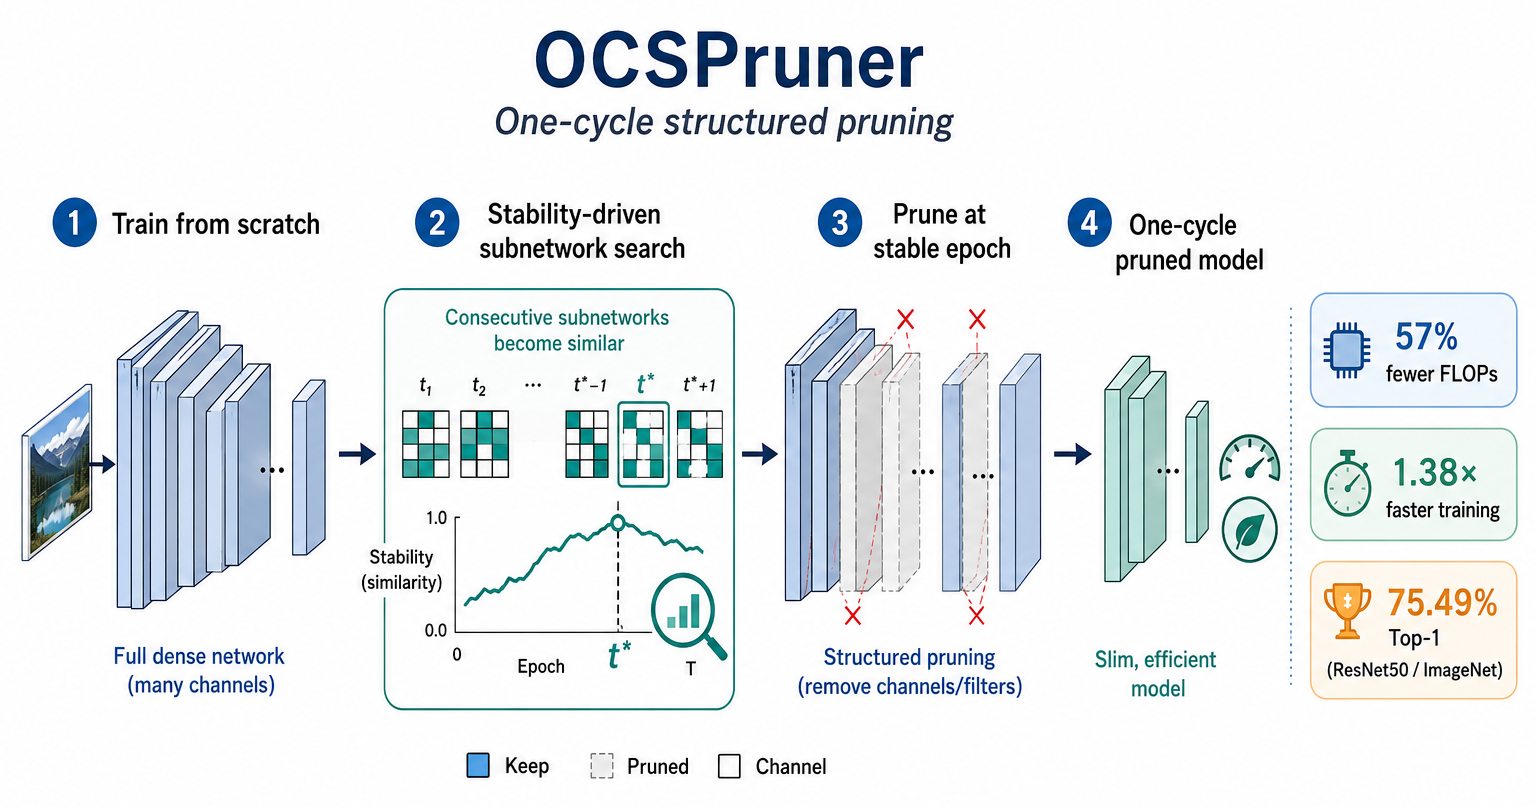
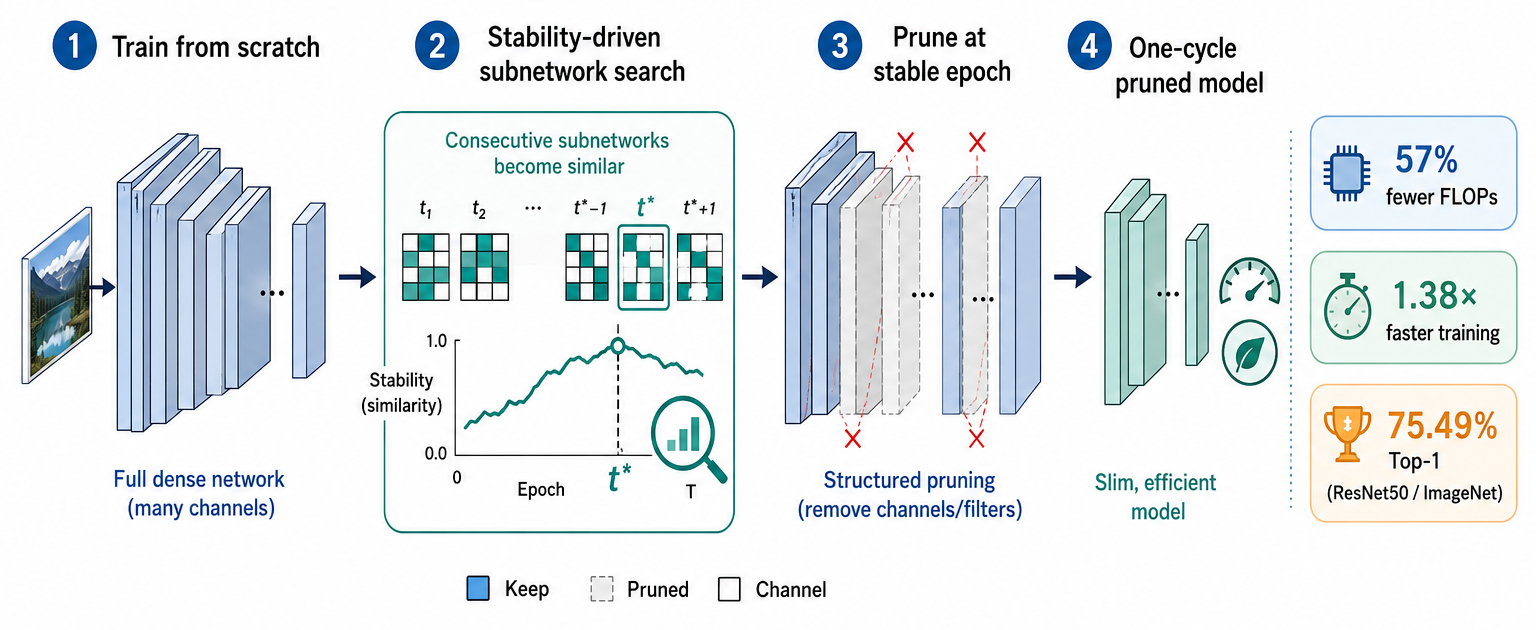
Update website

diff --git a/assets/css/styles.css b/assets/css/styles.css
@@ -1227,13 +1227,14 @@ h3 {
 
 .publication-list {
   display: grid;
-  gap: 16px;
+  gap: 14px;
 }
 
 .publication-card {
   display: grid;
   grid-template-columns: minmax(220px, 0.34fr) minmax(0, 1fr);
-  gap: 22px;
+  align-items: start;
+  gap: 16px;
   padding: 0;
   overflow: hidden;
 }
@@ -1243,16 +1244,29 @@ h3 {
 }
 
 .publication-card h2 {
+  margin-bottom: 8px;
   font-size: 1.08rem;
-  line-height: 1.3;
+  line-height: 1.22;
 }
 
 .publication-card p {
-  margin-bottom: 14px;
+  margin-bottom: 10px;
+}
+
+.pub-summary-row {
+  display: grid;
+  grid-template-columns: minmax(0, 1fr) auto;
+  align-items: start;
+  gap: 8px 10px;
+  margin-bottom: 10px;
+}
+
+.pub-summary-row p {
+  margin-bottom: 0;
 }
 
 .pub-body {
-  padding: 10px 24px 20px 0;
+  padding: 8px 16px 12px 0;
 }
 
 .publication-card a,
@@ -1273,9 +1287,12 @@ h3 {
 
 .pub-visual {
   display: grid;
-  align-content: center;
+  grid-template-rows: auto minmax(96px, 1fr) auto;
+  align-self: start;
+  align-content: stretch;
   justify-items: center;
-  min-height: 205px;
+  height: 165px;
+  min-height: 165px;
   padding: 0;
   border-right: 1px solid var(--line);
   background:
@@ -1285,15 +1302,16 @@ h3 {
 }
 
 .pub-visual .pub-icon {
-  width: 82px;
-  height: 82px;
+  align-self: center;
+  width: 68px;
+  height: 68px;
 }
 
 .pub-visual .pub-meta {
   align-self: start;
   width: 100%;
   margin: 0;
-  padding: 10px 10px 8px;
+  padding: 10px 10px 7px;
   border-bottom: 1px solid rgba(223, 228, 226, 0.85);
   color: var(--deep-red);
   font-size: 0.72rem;
@@ -1302,6 +1320,7 @@ h3 {
 }
 
 .pub-abstract {
+  align-self: center;
   width: 100%;
   max-width: none;
   height: auto;
@@ -1315,10 +1334,44 @@ h3 {
   box-shadow: none;
 }
 
+.pub-visual::after {
+  align-self: end;
+  width: 100%;
+  padding: 7px 8px 8px;
+  border-top: 1px solid rgba(223, 228, 226, 0.78);
+  color: var(--muted);
+  font-size: 0.72rem;
+  font-weight: 900;
+  letter-spacing: 0.08em;
+  line-height: 1.2;
+  text-align: center;
+  text-transform: uppercase;
+}
+
+.publication-card[data-topic="edge-ai"] .pub-visual::after {
+  content: "Efficient AI";
+}
+
+.publication-card[data-topic="vision"] .pub-visual::after {
+  content: "Vision";
+}
+
+.publication-card[data-topic="agri"] .pub-visual::after {
+  content: "Agriculture";
+}
+
+.publication-card[data-topic="health"] .pub-visual::after {
+  content: "Healthcare AI";
+}
+
+.publication-card[data-topic="systems"] .pub-visual::after {
+  content: "Systems";
+}
+
 .pub-actions {
   display: flex;
   flex-wrap: wrap;
-  gap: 9px;
+  gap: 8px;
 }
 
 .pub-actions a {
@@ -1338,6 +1391,90 @@ h3 {
 .pub-actions a:hover {
   border-color: rgba(29, 111, 120, 0.5);
   background: #f0f7f6;
+}
+
+.pub-details {
+  margin-top: 1px;
+}
+
+.pub-details[open] {
+  display: contents;
+}
+
+.pub-details[open] summary {
+  grid-column: 2;
+  grid-row: 1;
+}
+
+.pub-details[open] .pub-details-body {
+  grid-column: 1 / -1;
+  grid-row: 2;
+}
+
+.pub-details summary {
+  display: inline-flex;
+  align-items: center;
+  min-height: 28px;
+  padding: 4px 9px;
+  border: 1px solid rgba(143, 29, 24, 0.22);
+  border-radius: 999px;
+  background: #fbfcfa;
+  color: var(--deep-red);
+  cursor: pointer;
+  font-size: 0.76rem;
+  font-weight: 900;
+  line-height: 1;
+  list-style: none;
+  text-transform: uppercase;
+}
+
+.pub-details summary::-webkit-details-marker {
+  display: none;
+}
+
+.pub-details summary::after {
+  content: "+";
+  margin-left: 6px;
+}
+
+.pub-details[open] summary::after {
+  content: "-";
+}
+
+.pub-details-body {
+  margin-top: 10px;
+  padding: 12px 14px;
+  border: 1px solid rgba(29, 111, 120, 0.16);
+  border-radius: var(--radius);
+  background: #fbfcfa;
+}
+
+.pub-details dl {
+  display: grid;
+  gap: 9px;
+  margin: 0;
+}
+
+.pub-details dl div {
+  display: grid;
+  grid-template-columns: 112px 1fr;
+  gap: 12px;
+}
+
+.pub-details dt {
+  color: var(--deep-red);
+  font-size: 0.72rem;
+  font-weight: 900;
+  letter-spacing: 0.08em;
+  line-height: 1.35;
+  text-transform: uppercase;
+}
+
+.pub-details dd {
+  margin: 0;
+  color: var(--muted);
+  font-size: 0.88rem;
+  line-height: 1.45;
 }
 
 .action-icon {
@@ -1931,6 +2068,15 @@ h3 {
 
   .pub-body {
     padding: 20px;
+  }
+
+  .pub-summary-row {
+    display: grid;
+  }
+
+  .pub-details dl div {
+    grid-template-columns: 1fr;
+    gap: 3px;
   }
 
   .gallery-grid {

diff --git a/publications.html b/publications.html
@@ -41,7 +41,32 @@
 
         <div class="pub-body">
 <h2>One-cycle Structured Pruning with Stability Driven Subnetwork Search</h2>
+<div class="pub-summary-row">
 <p>Introduces a one-cycle structured pruning strategy that searches for stable subnetworks while the model is being compressed. The goal is to make deep vision models lighter and more deployable without relying on a long, multi-stage pruning pipeline.</p>
+          <details class="pub-details">
+            <summary>Expand</summary>
+            <div class="pub-details-body">
+              <dl>
+                <div>
+                  <dt>Venue</dt>
+                  <dd>Proceedings of the IEEE/CVF Winter Conference on Applications of Computer Vision (WACV), 2026, pp. 5467-5476.</dd>
+                </div>
+                <div>
+                  <dt>Authors</dt>
+                  <dd>Deepak Ghimire, Dayoung Kil, Seonghwan Jeong, Jaesik Park, Seong-heum Kim</dd>
+                </div>
+                <div>
+                  <dt>Affiliations</dt>
+                  <dd>IT Application Research Center, Korea Electronics Technology Institute; Department of Intelligent Semiconductors, Soongsil University; Department of Computer Science &amp; Engineering, Seoul National University.</dd>
+                </div>
+                <div>
+                  <dt>Abstract Summary</dt>
+                  <dd>The paper introduces a one-cycle structured pruning framework that combines pre-training, pruning, and fine-tuning into a single training cycle. It searches for stable subnetworks during early training using group saliency, structured sparsity regularization, and a stability indicator based on subnetwork similarity across epochs. Experiments on CIFAR-10/100 and ImageNet with VGGNet, ResNet, and MobileNet show competitive accuracy with strong training-time efficiency.</dd>
+                </div>
+              </dl>
+            </div>
+          </details>
+</div>
 
           <div class="pub-actions">
 
@@ -52,7 +77,6 @@
             <a href="https://arxiv.org/abs/2501.13439" target="_blank" rel="noopener"><span class="action-icon arxiv-icon"></span>arXiv</a>
 
             <a href="https://github.com/ghimiredhikura/OCSPruner" target="_blank" rel="noopener"><span class="action-icon github-icon"></span>GitHub</a>
-
           </div>
         </div>
       </article>
@@ -237,7 +261,7 @@
 
       <article class="publication-card" data-topic="edge-ai">
 
-        <div class="pub-visual"><span class="pub-meta">Image and Vision Computing, 2023 · Q1 Journal</span><span class="pub-icon accelerator"></span></div>
+        <div class="pub-visual"><span class="pub-meta">Image and Vision Computing, 2023 · Q1 Journal</span><img class="pub-abstract" src="assets/images/laasp.png" alt="Graphical abstract for LAASP"></div>  
 
         <div class="pub-body">
 <h2>Loss-Aware Automatic Selection of Structured Pruning Criteria for Deep Neural Network Acceleration</h2>